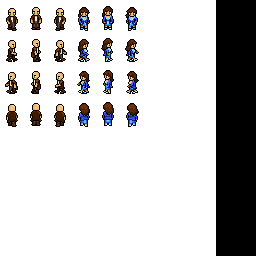
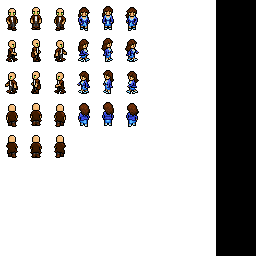
Climbing II
Added a climbing animation for Baldorf, and updated agent rendering to
correctly use the new climbing animation.  It reverts to the regular
idle position while not moving though, which may need a new state
variable to fix, but for now it looks decent.

Changed region(s): [[0.0, 0.5312, 0.2812, 0.625]]

diff --git a/src/entities/Agent.java b/src/entities/Agent.java
@@ -6,6 +6,7 @@ import org.lwjgl.opengl.GL11;
 import org.newdawn.slick.opengl.Texture;
 
 import static entities.Agent.direction.*;
+import utils.planners.PathPlannerUtils;
 import world.Position;
 import world.World;
 import actions.Action;
@@ -199,7 +200,7 @@ public abstract class Agent {
 				int texY = getTexRow();
 				if (isClimbing())
 				{
-					texY += 3;
+					texY += 4;
 				}
 				else
 				{
@@ -219,6 +220,29 @@ public abstract class Agent {
 						texX += 2;
 					else
 						texX += 0;
+				}
+				//Set footstep animation for climbing
+				if (this.isClimbing())
+				{
+					if (Math.abs(offset[0]) <= 16 && Math.abs(offset[0]) > 7)
+					{
+						if (getFootstep() == right)
+							texX += 2;
+						else
+							texX += 0;
+					}
+					else if (Math.abs(offset[1]) <= 16 && Math.abs(offset[1]) > 7)
+					{
+						if (getFootstep() == right)
+							texX += 2;
+						else
+							texX += 0;
+					}
+					else
+					{
+						texX += 1;
+					}
+					
 				}
 				//Set footstep animation for regular stepping
 				else

diff --git a/src/entities/Placeholder.java b/src/entities/Placeholder.java
@@ -67,7 +67,7 @@ public class Placeholder extends Agent {
 				int texY = agent.getTexRow();
 				if (agent.isClimbing())
 				{
-					texY += 3;
+					texY += 4;
 				}
 				else
 				{
